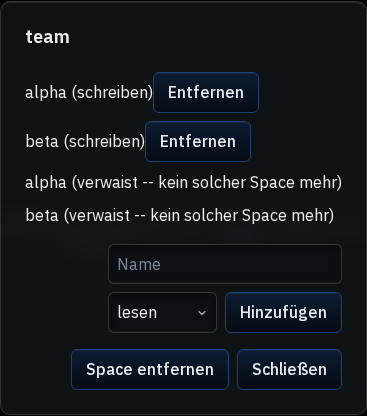
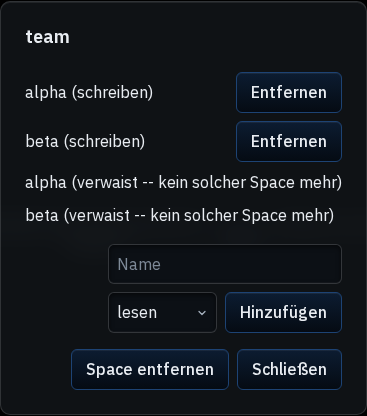
phase 9: feedback B4 Nachsatz -- Entfernen-Knopf rechtsbuendig (Sichtpruefung)
.space-member-row als Flex mit justify-content: space-between und gap:
der Knopf sitzt auf der Kante von Hinzufuegen (1154 px), Abstand zum Text
>= --space. Probe S10b 14/14, Gegenlauf ohne die Regel rot.
Korrektur: der Session-Block im Head war nach der Rotation der alte (B3);
B4-Block wieder oben, B3 im Archiv (rotate_session_block.sh behaelt den
unteren Block -- neuen Block deshalb UNTER den alten setzen).

Claude-Session: https://claude.ai/code/session_01VnF5FKhJuPeopaAsiUWNNJ

Changed region(s): [[0.3896, 0.1562, 0.9292, 0.4062], [0.8992, 0.375, 0.9292, 0.4062], [0.3896, 0.375, 0.4196, 0.4062]]

diff --git a/phase5_ui/webui/static/app.css b/phase5_ui/webui/static/app.css
@@ -2136,6 +2136,18 @@ select.input:focus {
   gap: var(--space);
 }
 
+/* P9-BM, Nachsatz (2026-10-08, Sichtprüfung zu Bild B4): der „Entfernen"-Knopf klebte am Text
+   (Abstand 0–4 px) und wanderte mit der Namenslänge. Die Zeile ist jetzt eine Flex-Zeile mit
+   `justify-content: space-between`: der Knopf sitzt **rechtsbündig** auf derselben Kante wie
+   „Hinzufügen" darunter, die Zeilenbreite hängt nicht mehr am Namen, und `gap` hält den
+   Mindestabstand zum Text. */
+.space-member-row {
+  display: flex;
+  align-items: center;
+  justify-content: space-between;
+  gap: var(--space);
+}
+
 /* P9-AZ (2026-10-05, Nikinger, wörtlich): „Name des Spaces"-Feld und „Space anlegen" **in eine
    Zeile**, links und rechts bündig mit der Linie darüber, Standard-Abstand zwischen den Knöpfen;
    „Schließen" bleibt allein darunter rechtsbündig.

diff --git a/phase9_hardening/scripts/p9_feedback_self_check.py b/phase9_hardening/scripts/p9_feedback_self_check.py
@@ -320,6 +320,20 @@ def _b4(page: Page) -> None:
         return {n: zeilen.length, space: r2(space),
                 abstaende: zeilen.slice(1).map((b, i) => r2(b.top - zeilen[i].bottom))};
     }""")
+    k = page.evaluate("""() => {
+        const r2 = (v) => Math.round(v * 100) / 100;
+        const hinzu = document.getElementById('space-member-add-submit').getBoundingClientRect();
+        const zeilen = [...document.querySelectorAll('#space-member-list > li')]
+          .filter(li => li.querySelector('button'));
+        return {rechts_hinzu: r2(hinzu.right), zeilen: zeilen.map(li => {
+          const t = li.querySelector('span').getBoundingClientRect();
+          const b = li.querySelector('button').getBoundingClientRect();
+          return {rechts: r2(b.right), abstand: r2(b.left - t.right)}; })};
+    }""")
+    pruefe("S10b Entfernen-Knoepfe sitzen rechtsbuendig auf der Kante von „Hinzufuegen“, Abstand zum Text >= --space",
+           len(k["zeilen"]) >= 2 and all(abs(z["rechts"] - k["rechts_hinzu"]) <= 1 and z["abstand"] >= m["space"]
+                                         for z in k["zeilen"]),
+           f"Hinzufuegen rechts={k['rechts_hinzu']} Zeilen={k['zeilen']}")
     page.locator("#settings-space-detail").screenshot(path=str(OUT_DIR / "p9_feedback_b4_mitglieder.png"))
     pruefe("S10 Mitgliederzeilen haben den Standardabstand (--space)",
            m["n"] >= 2 and m["space"] > 0 and all(abs(a - m["space"]) <= 0.5 for a in m["abstaende"]),

diff --git a/phase9_hardening/tests/test_settings_chain.py b/phase9_hardening/tests/test_settings_chain.py
@@ -1363,6 +1363,12 @@ def test_the_two_input_rows_stop_being_staircases():
     assert _eigenschaft(mitglieder[0], "display") == "flex", mitglieder[0]
     assert _eigenschaft(mitglieder[0], "flex-direction") == "column", mitglieder[0]
     assert _eigenschaft(mitglieder[0], "gap") == "var(--space)", mitglieder[0]
+    # Nachsatz B4 (Sichtpruefung): der Entfernen-Knopf sitzt rechtsbuendig, mit Mindestabstand zum Text.
+    zeilen_regel = [b for erster, selectors, b in _alle_regeln() if erster == ".space-member-row"]
+    assert len(zeilen_regel) == 1, f"genau eine Regel fuer .space-member-row erwartet: {len(zeilen_regel)}"
+    assert _eigenschaft(zeilen_regel[0], "display") == "flex", zeilen_regel[0]
+    assert _eigenschaft(zeilen_regel[0], "justify-content") == "space-between", zeilen_regel[0]
+    assert _eigenschaft(zeilen_regel[0], "gap") == "var(--space)", zeilen_regel[0]
 
 
 # --- Block „Kästchen enger" (Plan §12.1, Locks P9-BB/BC/BD/BE, Abnahme P9-116 – P9-119) ---------

diff --git a/phase9_hardening/SESSIONS_ARCHIVE.md b/phase9_hardening/SESSIONS_ARCHIVE.md
@@ -5,7 +5,7 @@ read-when: Chronik einer älteren P9-Session gesucht — nicht beim normalen Arb
 detail: L3
 up: ./CLAUDE.md
 down:
-updated: 2026-10-08 (Block „dreiunddreißigster Block“ verbatim hierher rotiert, B4 gebaut; Archiv **385.202 → 387.085 B**) | 2026-10-08 (Block „zweiunddreißigster Block“ verbatim hierher rotiert, B3 gebaut; Archiv **381.997 → 385.202 B**) | 2026-10-08 (Block „einunddreißigster Block“ verbatim hierher rotiert, E1a des feedback-Blocks gebaut; Archiv **379.160 → 381.997 B**) | 2026-10-08 (Block „dreißigster Block“ verbatim hierher rotiert, B2 des feedback-Blocks gebaut; Archiv **377.085 → 379.160 B**) | 2026-10-07 (Block „neunundzwanzigster Block“ verbatim hierher rotiert, B1 des feedback-Blocks gebaut; Archiv **367.947 → 376944 B**) | 2026-10-07 (Block vom **2026-10-06** (dritte Sichtprüfung, samt der 2026-10-07 eingetragenen Deploy- und Kleinigkeiten-Vermerke) verbatim hierher rotiert, per `scripts/rotate_session_block.sh`; Archiv **361.906 → 367.947 B**) | 2026-10-06 (Block vom **2026-10-06** (dritte Sichtprüfung, Lock **P9-BF**, Abnahme **P9-120**) verbatim hierher rotiert, per `scripts/rotate_session_block.sh`; Archiv **352.224 → 354.010 B**, Head **33.060 → 34.900 B**) | 2026-10-06 (Block vom **2026-10-06** („Kästchen enger", Mini-Plan §12.1, Locks P9-BB/BC/BD/**BE**, Abnahme P9-116–P9-119) verbatim hierher rotiert, per `scripts/rotate_session_block.sh`; Archiv **342.168 → 351.965 B**, Head **32.707 → 31.575 B**) | 2026-10-05 (Block vom **2026-10-05** (LEGACY_UNTIL=open) verbatim hierher rotiert, per `scripts/rotate_session_block.sh`; Archiv **300.461 → 310.492 B**, Head **29.371 → 28.133 B**) | 2026-10-05 (Block 2026-10-04 aus dem Head verbatim hierher rotiert, per `scripts/rotate_session_block.sh`) | 2026-10-04 (**zweiundzwanzigste Rotation** — der Block vom **2026-10-03** wandert **verbatim** hierher: Hauptblock (7.842 B) plus seine drei `###`-Nachträge (2.643 / 3.388 / 3.902 B), zusammen **214 Zeilen / 17.780 B**; `scripts/rotate_session_block.sh phase9_hardening`, alle vier Gegenproben des Skripts grün, byteweise Gegenlese nach dem Schreiben, Backups danach entfernt) · **Grund:** die Konvention trägt genau **einen** `## Session stopped`-Block im Head, und es ist ein neuer Tag — die Rotation war überfällig, nicht optional · **Die Byte-Buchhaltung ging auf das Byte:** 66.223 B (Head) + 262.069 B (dieses Archiv) = 328.292 B, danach 59.354 + 279.849 = 339.203 B; die Differenz von 10.911 B ist **genau** der neue Block (77.134 − 66.223) — verschoben wurde 17.780 B, hinzugekommen 10.911 B, kein Byte verloren und keines erfunden · **Und die Antwort auf die offene Frage steht in diesem Commit, nicht hier:** nach beiden Rotationen bleibt der Head ~14 KB über dem Softcap, weil nicht die *Anzahl* der Blöcke das Problem ist, sondern die Breite der §-Modulstatus-Tabelle (30.564 B in 14 Zeilen (Kopf + 13 Datenzeilen)). Die Blockschnittzahl ist damit gegenstandslos — **K=1 ist die Konvention, und selbst K=1 passt nicht** | 2026-10-03 (**zweiundzwanzigste Rotation** — der **einundzwanzigste** Block wandert verbatim hierher: Release-Commit `v3.1.1` steht (Badge + `## 2026-10-03`-Block), davor der Datumsfehler der letzten beiden Commits (42 Fundstellen) und die Reparatur dieser Kette — sie hatte **kein Feld** und 7 von 29 unsichtbaren Fäden; Head 54.326 → 47.208 B) | 2026-10-03 (sechsundzwanzigste Rotation: der **siebzehnte** Block wandert verbatim hierher — Kettenrotation des Heads (36 von 37 Fäden nach `UPDATES_ARCHIVE.md`, 57.873 → 39.106 B) und `rotate_index_updates.sh` um Zieldatei/Archiv erweitert) | 2026-10-03 (**zwanzigster Block rotiert** — „die Karte schrumpft": `docs/INDEX.md` 71.573 → 38.532 B, die 37.391 B datierte Nachträge wandern nach `docs/INDEX_ENTRIES_ARCHIVE.md`, das Kriterium ist neu baseliniert; P9-3 und V145 ✅; die Wurzel-`CLAUDE.md` bleibt auf Nikinger-Entscheidung unangetastet und ist stattdessen gemessen) | 2026-10-03 (**der neunzehnte Block rotiert** — „die Zahlen der Abnahmematrix dürfen nicht mehr still veralten": P9-3/V145 nannten `61.108 B` für eine Datei von real 71.491 B, die Bilanz stand viermal mit drei Zahlen, und der benannte Hebel für die INDEX-Überschreitung wurde als No-op nachgewiesen; 7 neue Tests, 6 Gegenproben rot) | 2026-10-03 (fünfundzwanzigste Rotation: der **siebzehnte** Block wandert verbatim hierher — Kettenrotation des Heads (`UPDATES_ARCHIVE.md`, 36 von 37 Fäden) + `rotate_index_updates.sh` um Zieldatei/Archiv erweitert; **und ein Fund aus dem allerersten Schritt: die vorige Rotation hat dieser Zeile das `updated: `-Präfix genommen** (Commit aee387d, 2026-10-03) — das Feld war damit für jedes Werkzeug unsichtbar, `doc_health` prüft es nicht und eine Rotation dieses Archivs würde mit 'Keine updated:-Zeile' abbrechen. Präfix wiederhergestellt, Fehler benannt statt still mitgenommen) | 2026-10-03 (vierundzwanzigste Rotation: der **sechzehnte** Block wandert verbatim hierher — Step D endlich gefahren, P9-28/-29/-30 von ⬜/⚠ auf ✅, Browser-Probe 16/16 mit **zwei** Gegenproben im Repo, 0 Zeilen Produktcode; Archiv 209.333 → 219.179 B, Head 65.986 → 56.140 B) | 2026-10-03 (dreiundzwanzigste Rotation: der **fünfzehnte** Block — Abnahmematrix P9-1–P9-82 + `[VERIFY]`-Bilanz steht (`ABNAHME_MATRIX.md` neu), und drei Funde, die die Übergabe nicht trug: die „40 Einträge" waren ein Nummernbereich (belegt: **34**, V167–V172 unbelegt), P9-56 hat einen nicht angekündigten Tabu-Treffer (`phase7_hardening/tests/test_space_removal.py`, 17 Z.), und **GA2 wurde nie gebaut** — genau P9-27/-29/-30 sind die Zeilen ohne Probe; der **vierzehnte** Block (B17) wandert verbatim hierher, neuer Head-Block = 2026-10-03; Head **56.142 B → 53.215 B**, Archiv 195.890 B → 209.333 B — **weiter über dem Softcap, neu benannt**, die Restmasse bleiben die 7.467 B durchgestrichenen Statusabsätze im Modulstatus, Streichen bleibt Nikinger-Entscheidung) | 2026-10-02 (zweiundzwanzigste Rotation: der dreizehnte Block — Gate/Z-Doku-Hälfte (zwei Sektions-Rotationen, P9-L-Lauf, Skript-Defekt `rotate_index_updates.sh`) — wandert verbatim hierher; neuer Head-Block = **B17 gebaut** (ein Knopf, zwei korrigierte Zahlen im Backlog, Konflikt mit Konvention v3 zurückgestellt); Head 63.470 B → 53.968 B — **weiter über dem Softcap, neu benannt**, die Restmasse sind weiter die 7.467 B durchgestrichenen Statusabsätze im Modulstatus, Streichen bleibt Nikinger-Entscheidung) | 2026-10-02 (einundzwanzigste Rotation: der zwölfte Block — Block trace gebaut, opencode/M3 — wandert verbatim hierher; neuer Head-Block = Gate/Z-Doku-Hälfte (zwei Sektions-Rotationen, P9-L-Lauf, Skript-Defekt `rotate_index_updates.sh`); Head 49.440 B → 44.360 B — **weiter über dem Softcap, neu benannt**, die Restmasse sind 7.467 B durchgestrichene Statusabsätze im Modulstatus, Streichen ist Nikinger-Entscheidung) | 2026-10-02 (zwanzigste Rotation: der zwölfte Block — Block trace gebaut, opencode/M3 — ist ans Dateiende gewandert, der elfte Block (Deploy-Abbruch behoben, `v3.1.0` live, Planungssession) verbatim ins Archiv; Head 46.993 B → 42.012 B) | 2026-10-02 (**neunzehnte Rotation, elfter Block** — der zehnte Block (doing-Block gebaut) wandert verbatim hierher; neuer Head-Block = Deploy-Abbruch `v3.1.0` behoben, `requests` war nie deklariert) | 2026-10-02 (**achtzehnte Rotation, zehnter Block** — der neunte Block (Mini-Plan doing-Block, Lock P9-V) wandert verbatim hierher; neuer Head-Block = doing-Block **gebaut**: `_BUCKETS["doing"]` + Rail-Label „In Arbeit", 6 neue Tests, Browser 11/11 mit Gegenlauf 7 rot, `pytest` 1128. **Head 44.508 B → 41.192 B** — und damit wieder 232 B **über** dem 40-KiB-Softcap, im INDEX neu benannt) | 2026-10-02 (**siebzehnte Rotation, neunter Block** — der achte Block (Deploy verschoben, Befund 11) wandert verbatim hierher; neuer Head-Block = Mini-Plan doing-Block, Lock P9-V) | 2026-10-01 (**sechzehnte Rotation, achter Block** — Deploy verschoben (Befund 11: `doing` ist im Deploy-Fall im Status-Feld erreichbar und zählt in keinem Ordner), `.toolbar-btn` in Standardoptik mit Pixel-Beleg 13/13, vier Tailscale-Bilder geklärt; Head 41.306 B, Archiv 152.730 B) | 2026-10-01 (**fünfzehnte Rotation, A4-Vorbereitung** — Step-A-Block (2026-10-01, Domain live) verbatim aus dem Head; Head 42.376 B → 34.795 B) | 2026-10-01 (**vierzehnte Rotation, Step A** — Step-B-Block verbatim aus dem Head; Head 41.707 B → 29.415 B) | 2026-09-30 (**dreizehnte Rotation, Step B** — Step-B-Block [polkit-Regel gebaut, V153 entschieden: sudoers ist unter NoNewPrivileges unbaubar; systemd 255 kennt nur die grobe `manage-units`-Aktion, deshalb JS-Regel mit Unit-Attribut; V153-Probe ohne tailscaled-Kontakt] im Head **angehängt**, Step-H-Block verbatim ins Archiv; Head 34.873 B → 28.685 B) | 2026-09-30 (**zwoelfte Rotation, Step H** — Step-H-Block [`fastmcp` exakt gepinnt `==3.4.7`, der Range-Pin hatte den Live-Release bereits lautlos auf 3.4.7 gezogen, V163 mit drei Codepunkten beantwortet, Wächter als Deploy-Riegel, Gegenprobe 4 Verstöße → 7 rot] im Head **angehängt**, Step-G-Block verbatim ins Archiv; Head 33.175 B → 26.210 B) | 2026-09-30 (**elfte Rotation, Step G** — Step-G-Block [Lösch-Ort war unbaubar, TLS-Wegwerf für den Browserbeleg, 14/14] im Head **angehängt**, Step-F-Block verbatim ins Archiv; Head 32.668 B → 25.740 B) | 2026-09-30 (**zehnte Rotation, Step F** — Step-F-Block 2026-09-30 [doing/assignee, neunte P1-Contract-Öffnung, V160 beantwortet, Plan-§8.2-Korrektur 9 → 18 Hunks, `_BUCKETS`-Befund bewusst nicht behoben, V161-Vorabwert] im Head **angehängt**, Block 2026-09-30 [A1/A2/A3/A0b/A6] verbatim ins Archiv; Head 30.868 B → 23.312 B) | 2026-09-30 (neunte Rotation — Step-A-Block 2026-09-30 [A1/A2/A3/A0b/A6 ausgeführt, A6-eigener-Fehler, vier eigene Fehler, Gegenseiten-Belege] im Head angehängt, Block 2026-09-29 [Step A vorbereitet: Plan-A4 unbaubar, socat-Relay gebaut] verbatim ins Archiv; Head 41.523 B → 23.080 B) | 2026-09-29 (achte Rotation — Step-A-Vorbereitungs-Block 2026-09-29 [sechs gemessene Befunde, Plan-A4 als unbaubar nachgewiesen, socat-Relay-Unit + Caddy-Vorlage + ACL-Entwurf + geführtes Runbook, V149 beantwortet, V162 neu offen] im Head angehängt, Block 2026-09-28 [Step E: Reload-Overload] verbatim ins Archiv; Head 41.523 B → 21.880 B) | 2026-09-28 (siebte Rotation — Step-E-Block 2026-09-28 [Reload-Overload: Signatur aus dem /overview-Payload statt aus dem Graph-Payload, Positionen überleben den Wiedereintritt, V118 beantwortet] im Head angehängt, Block 2026-09-26 [Step C abgeschlossen: C8 + Host-Aufräumen pve + P9-22 deferred] verbatim ins Archiv; 13.606 B, 215 Zeilen) | 2026-09-26 (sechste Rotation — Step-C-Abschluss-Block 2026-09-26 [C8 + Host-Aufräumen pve + P9-22 deferred] im Head angehängt, Block  | 2026-09-25 (3) [GPU-Reboot-Persistenz / devN-Fix / C4 / C5] verbatim ins Archiv verschoben; Head trägt jetzt exakt einen Session-Block) | 2026-09-25 (fünfte Rotation — Step-C-Block  | 2026-09-25 (2) [Diagnose, Host-Fix, GPU-Messung, Boot-Persistenz] verbatim ins Archiv; Head trägt Block (3)) | 2026-09-25 (vierte Rotation — C6-/Backlog-Block vom 2026-09-25 verbatim ins Archiv; Head trägt den Step-C-Diagnose-Block  | 2026-09-25 (2)) | 2026-09-25 (dritte Rotation — Step-C-Teil-1-Block vom 2026-09-24 ins Archiv verschoben, verbatim; Head trägt jetzt den Step-C-Teil-2 / C6-Block vom 2026-09-25 allein) | 2026-09-24 (zweite Rotation — Step-D-Block vom 2026-09-23 aus dem Head verschoben, verbatim) | 2026-09-23 (erste Rotation — Step-0-Block aus dem Head verschoben, verbatim) | 2026-09-20 (angelegt, noch leer)
+updated: 2026-10-08 (Block „dreiunddreißigster Block“ verbatim hierher rotiert, B4 gebaut; Archiv **385.202 → 387.344 B**) | 2026-10-08 (Block „zweiunddreißigster Block“ verbatim hierher rotiert, B3 gebaut; Archiv **381.997 → 385.202 B**) | 2026-10-08 (Block „einunddreißigster Block“ verbatim hierher rotiert, E1a des feedback-Blocks gebaut; Archiv **379.160 → 381.997 B**) | 2026-10-08 (Block „dreißigster Block“ verbatim hierher rotiert, B2 des feedback-Blocks gebaut; Archiv **377.085 → 379.160 B**) | 2026-10-07 (Block „neunundzwanzigster Block“ verbatim hierher rotiert, B1 des feedback-Blocks gebaut; Archiv **367.947 → 376944 B**) | 2026-10-07 (Block vom **2026-10-06** (dritte Sichtprüfung, samt der 2026-10-07 eingetragenen Deploy- und Kleinigkeiten-Vermerke) verbatim hierher rotiert, per `scripts/rotate_session_block.sh`; Archiv **361.906 → 367.947 B**) | 2026-10-06 (Block vom **2026-10-06** (dritte Sichtprüfung, Lock **P9-BF**, Abnahme **P9-120**) verbatim hierher rotiert, per `scripts/rotate_session_block.sh`; Archiv **352.224 → 354.010 B**, Head **33.060 → 34.900 B**) | 2026-10-06 (Block vom **2026-10-06** („Kästchen enger", Mini-Plan §12.1, Locks P9-BB/BC/BD/**BE**, Abnahme P9-116–P9-119) verbatim hierher rotiert, per `scripts/rotate_session_block.sh`; Archiv **342.168 → 351.965 B**, Head **32.707 → 31.575 B**) | 2026-10-05 (Block vom **2026-10-05** (LEGACY_UNTIL=open) verbatim hierher rotiert, per `scripts/rotate_session_block.sh`; Archiv **300.461 → 310.492 B**, Head **29.371 → 28.133 B**) | 2026-10-05 (Block 2026-10-04 aus dem Head verbatim hierher rotiert, per `scripts/rotate_session_block.sh`) | 2026-10-04 (**zweiundzwanzigste Rotation** — der Block vom **2026-10-03** wandert **verbatim** hierher: Hauptblock (7.842 B) plus seine drei `###`-Nachträge (2.643 / 3.388 / 3.902 B), zusammen **214 Zeilen / 17.780 B**; `scripts/rotate_session_block.sh phase9_hardening`, alle vier Gegenproben des Skripts grün, byteweise Gegenlese nach dem Schreiben, Backups danach entfernt) · **Grund:** die Konvention trägt genau **einen** `## Session stopped`-Block im Head, und es ist ein neuer Tag — die Rotation war überfällig, nicht optional · **Die Byte-Buchhaltung ging auf das Byte:** 66.223 B (Head) + 262.069 B (dieses Archiv) = 328.292 B, danach 59.354 + 279.849 = 339.203 B; die Differenz von 10.911 B ist **genau** der neue Block (77.134 − 66.223) — verschoben wurde 17.780 B, hinzugekommen 10.911 B, kein Byte verloren und keines erfunden · **Und die Antwort auf die offene Frage steht in diesem Commit, nicht hier:** nach beiden Rotationen bleibt der Head ~14 KB über dem Softcap, weil nicht die *Anzahl* der Blöcke das Problem ist, sondern die Breite der §-Modulstatus-Tabelle (30.564 B in 14 Zeilen (Kopf + 13 Datenzeilen)). Die Blockschnittzahl ist damit gegenstandslos — **K=1 ist die Konvention, und selbst K=1 passt nicht** | 2026-10-03 (**zweiundzwanzigste Rotation** — der **einundzwanzigste** Block wandert verbatim hierher: Release-Commit `v3.1.1` steht (Badge + `## 2026-10-03`-Block), davor der Datumsfehler der letzten beiden Commits (42 Fundstellen) und die Reparatur dieser Kette — sie hatte **kein Feld** und 7 von 29 unsichtbaren Fäden; Head 54.326 → 47.208 B) | 2026-10-03 (sechsundzwanzigste Rotation: der **siebzehnte** Block wandert verbatim hierher — Kettenrotation des Heads (36 von 37 Fäden nach `UPDATES_ARCHIVE.md`, 57.873 → 39.106 B) und `rotate_index_updates.sh` um Zieldatei/Archiv erweitert) | 2026-10-03 (**zwanzigster Block rotiert** — „die Karte schrumpft": `docs/INDEX.md` 71.573 → 38.532 B, die 37.391 B datierte Nachträge wandern nach `docs/INDEX_ENTRIES_ARCHIVE.md`, das Kriterium ist neu baseliniert; P9-3 und V145 ✅; die Wurzel-`CLAUDE.md` bleibt auf Nikinger-Entscheidung unangetastet und ist stattdessen gemessen) | 2026-10-03 (**der neunzehnte Block rotiert** — „die Zahlen der Abnahmematrix dürfen nicht mehr still veralten": P9-3/V145 nannten `61.108 B` für eine Datei von real 71.491 B, die Bilanz stand viermal mit drei Zahlen, und der benannte Hebel für die INDEX-Überschreitung wurde als No-op nachgewiesen; 7 neue Tests, 6 Gegenproben rot) | 2026-10-03 (fünfundzwanzigste Rotation: der **siebzehnte** Block wandert verbatim hierher — Kettenrotation des Heads (`UPDATES_ARCHIVE.md`, 36 von 37 Fäden) + `rotate_index_updates.sh` um Zieldatei/Archiv erweitert; **und ein Fund aus dem allerersten Schritt: die vorige Rotation hat dieser Zeile das `updated: `-Präfix genommen** (Commit aee387d, 2026-10-03) — das Feld war damit für jedes Werkzeug unsichtbar, `doc_health` prüft es nicht und eine Rotation dieses Archivs würde mit 'Keine updated:-Zeile' abbrechen. Präfix wiederhergestellt, Fehler benannt statt still mitgenommen) | 2026-10-03 (vierundzwanzigste Rotation: der **sechzehnte** Block wandert verbatim hierher — Step D endlich gefahren, P9-28/-29/-30 von ⬜/⚠ auf ✅, Browser-Probe 16/16 mit **zwei** Gegenproben im Repo, 0 Zeilen Produktcode; Archiv 209.333 → 219.179 B, Head 65.986 → 56.140 B) | 2026-10-03 (dreiundzwanzigste Rotation: der **fünfzehnte** Block — Abnahmematrix P9-1–P9-82 + `[VERIFY]`-Bilanz steht (`ABNAHME_MATRIX.md` neu), und drei Funde, die die Übergabe nicht trug: die „40 Einträge" waren ein Nummernbereich (belegt: **34**, V167–V172 unbelegt), P9-56 hat einen nicht angekündigten Tabu-Treffer (`phase7_hardening/tests/test_space_removal.py`, 17 Z.), und **GA2 wurde nie gebaut** — genau P9-27/-29/-30 sind die Zeilen ohne Probe; der **vierzehnte** Block (B17) wandert verbatim hierher, neuer Head-Block = 2026-10-03; Head **56.142 B → 53.215 B**, Archiv 195.890 B → 209.333 B — **weiter über dem Softcap, neu benannt**, die Restmasse bleiben die 7.467 B durchgestrichenen Statusabsätze im Modulstatus, Streichen bleibt Nikinger-Entscheidung) | 2026-10-02 (zweiundzwanzigste Rotation: der dreizehnte Block — Gate/Z-Doku-Hälfte (zwei Sektions-Rotationen, P9-L-Lauf, Skript-Defekt `rotate_index_updates.sh`) — wandert verbatim hierher; neuer Head-Block = **B17 gebaut** (ein Knopf, zwei korrigierte Zahlen im Backlog, Konflikt mit Konvention v3 zurückgestellt); Head 63.470 B → 53.968 B — **weiter über dem Softcap, neu benannt**, die Restmasse sind weiter die 7.467 B durchgestrichenen Statusabsätze im Modulstatus, Streichen bleibt Nikinger-Entscheidung) | 2026-10-02 (einundzwanzigste Rotation: der zwölfte Block — Block trace gebaut, opencode/M3 — wandert verbatim hierher; neuer Head-Block = Gate/Z-Doku-Hälfte (zwei Sektions-Rotationen, P9-L-Lauf, Skript-Defekt `rotate_index_updates.sh`); Head 49.440 B → 44.360 B — **weiter über dem Softcap, neu benannt**, die Restmasse sind 7.467 B durchgestrichene Statusabsätze im Modulstatus, Streichen ist Nikinger-Entscheidung) | 2026-10-02 (zwanzigste Rotation: der zwölfte Block — Block trace gebaut, opencode/M3 — ist ans Dateiende gewandert, der elfte Block (Deploy-Abbruch behoben, `v3.1.0` live, Planungssession) verbatim ins Archiv; Head 46.993 B → 42.012 B) | 2026-10-02 (**neunzehnte Rotation, elfter Block** — der zehnte Block (doing-Block gebaut) wandert verbatim hierher; neuer Head-Block = Deploy-Abbruch `v3.1.0` behoben, `requests` war nie deklariert) | 2026-10-02 (**achtzehnte Rotation, zehnter Block** — der neunte Block (Mini-Plan doing-Block, Lock P9-V) wandert verbatim hierher; neuer Head-Block = doing-Block **gebaut**: `_BUCKETS["doing"]` + Rail-Label „In Arbeit", 6 neue Tests, Browser 11/11 mit Gegenlauf 7 rot, `pytest` 1128. **Head 44.508 B → 41.192 B** — und damit wieder 232 B **über** dem 40-KiB-Softcap, im INDEX neu benannt) | 2026-10-02 (**siebzehnte Rotation, neunter Block** — der achte Block (Deploy verschoben, Befund 11) wandert verbatim hierher; neuer Head-Block = Mini-Plan doing-Block, Lock P9-V) | 2026-10-01 (**sechzehnte Rotation, achter Block** — Deploy verschoben (Befund 11: `doing` ist im Deploy-Fall im Status-Feld erreichbar und zählt in keinem Ordner), `.toolbar-btn` in Standardoptik mit Pixel-Beleg 13/13, vier Tailscale-Bilder geklärt; Head 41.306 B, Archiv 152.730 B) | 2026-10-01 (**fünfzehnte Rotation, A4-Vorbereitung** — Step-A-Block (2026-10-01, Domain live) verbatim aus dem Head; Head 42.376 B → 34.795 B) | 2026-10-01 (**vierzehnte Rotation, Step A** — Step-B-Block verbatim aus dem Head; Head 41.707 B → 29.415 B) | 2026-09-30 (**dreizehnte Rotation, Step B** — Step-B-Block [polkit-Regel gebaut, V153 entschieden: sudoers ist unter NoNewPrivileges unbaubar; systemd 255 kennt nur die grobe `manage-units`-Aktion, deshalb JS-Regel mit Unit-Attribut; V153-Probe ohne tailscaled-Kontakt] im Head **angehängt**, Step-H-Block verbatim ins Archiv; Head 34.873 B → 28.685 B) | 2026-09-30 (**zwoelfte Rotation, Step H** — Step-H-Block [`fastmcp` exakt gepinnt `==3.4.7`, der Range-Pin hatte den Live-Release bereits lautlos auf 3.4.7 gezogen, V163 mit drei Codepunkten beantwortet, Wächter als Deploy-Riegel, Gegenprobe 4 Verstöße → 7 rot] im Head **angehängt**, Step-G-Block verbatim ins Archiv; Head 33.175 B → 26.210 B) | 2026-09-30 (**elfte Rotation, Step G** — Step-G-Block [Lösch-Ort war unbaubar, TLS-Wegwerf für den Browserbeleg, 14/14] im Head **angehängt**, Step-F-Block verbatim ins Archiv; Head 32.668 B → 25.740 B) | 2026-09-30 (**zehnte Rotation, Step F** — Step-F-Block 2026-09-30 [doing/assignee, neunte P1-Contract-Öffnung, V160 beantwortet, Plan-§8.2-Korrektur 9 → 18 Hunks, `_BUCKETS`-Befund bewusst nicht behoben, V161-Vorabwert] im Head **angehängt**, Block 2026-09-30 [A1/A2/A3/A0b/A6] verbatim ins Archiv; Head 30.868 B → 23.312 B) | 2026-09-30 (neunte Rotation — Step-A-Block 2026-09-30 [A1/A2/A3/A0b/A6 ausgeführt, A6-eigener-Fehler, vier eigene Fehler, Gegenseiten-Belege] im Head angehängt, Block 2026-09-29 [Step A vorbereitet: Plan-A4 unbaubar, socat-Relay gebaut] verbatim ins Archiv; Head 41.523 B → 23.080 B) | 2026-09-29 (achte Rotation — Step-A-Vorbereitungs-Block 2026-09-29 [sechs gemessene Befunde, Plan-A4 als unbaubar nachgewiesen, socat-Relay-Unit + Caddy-Vorlage + ACL-Entwurf + geführtes Runbook, V149 beantwortet, V162 neu offen] im Head angehängt, Block 2026-09-28 [Step E: Reload-Overload] verbatim ins Archiv; Head 41.523 B → 21.880 B) | 2026-09-28 (siebte Rotation — Step-E-Block 2026-09-28 [Reload-Overload: Signatur aus dem /overview-Payload statt aus dem Graph-Payload, Positionen überleben den Wiedereintritt, V118 beantwortet] im Head angehängt, Block 2026-09-26 [Step C abgeschlossen: C8 + Host-Aufräumen pve + P9-22 deferred] verbatim ins Archiv; 13.606 B, 215 Zeilen) | 2026-09-26 (sechste Rotation — Step-C-Abschluss-Block 2026-09-26 [C8 + Host-Aufräumen pve + P9-22 deferred] im Head angehängt, Block  | 2026-09-25 (3) [GPU-Reboot-Persistenz / devN-Fix / C4 / C5] verbatim ins Archiv verschoben; Head trägt jetzt exakt einen Session-Block) | 2026-09-25 (fünfte Rotation — Step-C-Block  | 2026-09-25 (2) [Diagnose, Host-Fix, GPU-Messung, Boot-Persistenz] verbatim ins Archiv; Head trägt Block (3)) | 2026-09-25 (vierte Rotation — C6-/Backlog-Block vom 2026-09-25 verbatim ins Archiv; Head trägt den Step-C-Diagnose-Block  | 2026-09-25 (2)) | 2026-09-25 (dritte Rotation — Step-C-Teil-1-Block vom 2026-09-24 ins Archiv verschoben, verbatim; Head trägt jetzt den Step-C-Teil-2 / C6-Block vom 2026-09-25 allein) | 2026-09-24 (zweite Rotation — Step-D-Block vom 2026-09-23 aus dem Head verschoben, verbatim) | 2026-09-23 (erste Rotation — Step-0-Block aus dem Head verschoben, verbatim) | 2026-09-20 (angelegt, noch leer)
 ---
 
 # Phase 9 — Sessions Archive
@@ -16,29 +16,31 @@ Vorsatz: nichts abtippen, alles per Skript mit vier Gegenproben (Schnitt verlust
 Head trägt genau einen Block, alle bewegten Blöcke im Archiv byte-identisch, Archivbestand
 unangetastet).
 
-## Session stopped — 2026-10-08 (vierunddreißigster Block: **B4 gebaut — Übergabe für B5**; kein Deploy, kein Service-Touch)
+## Session stopped — 2026-10-08 (dreiunddreißigster Block: **B3 gebaut, Sessionende — Übergabe für B4**; kein Deploy, kein Service-Touch)
 
-**Ergebnis der Session.** B4 (P9-BM, Abnahme P9-130 ✅): `#space-member-list` ist eine Flex-Spalte mit
-`gap: var(--space)`. Probe S10 misst im Wegwerf-`team` **vier** Mitgliederzeilen mit Abständen **[8, 8, 8] px**
-gegen `--space` = 8 px; Gegenlauf `gap: 0` → S10 rot ([0, 0]). Matrix **114 ✅ · 12 ⚠ · 1 ⬜**, `pytest` **1261**
-(kein neuer Test — der bestehende Wächter der Mitgliederliste prüft jetzt auch `display`/`flex-direction`/`gap`).
-Probe **13/13**. **Nichts deployt.**
+**Ergebnis der Session.** Vier Commits: B2 (Zielangabe im Anlegen-Dialog, P9-125), E1a-Vorlauf (vierter
+Matrix-Teil), E1a (Team-Spaces verschieben/archivieren/löschen, P9-135–137, dazu ein behobenes Loch seit Step 7b),
+B3 (Schließen im Einstellungsmenü, P9-131). Matrix **113 ✅ · 12 ⚠ · 1 ⬜**, `pytest` **1261**, `ui_budget` 5/5,
+Probe `p9_feedback_self_check.py` **12/12**. **Nichts deployt**, alles auf `main` gepusht.
 
-**Abweichung vom Plan, benannt.** Die Probe legt kein Mitglied an: der Seed schreibt `team` mit alpha **und** beta,
-die Liste ist damit schon gefüllt, und das schließt die Grenze aus P9-107/P9-110. Ein Anlegen bräuchte einen
-dritten Principal samt Re-Auth (Plan §8, B4).
+**B3 in einem Satz.** `#settings-menu-close` schließt die ganze Kette (`closeSettings`); Probe S9 öffnet Menü +
+Update-Log und misst danach Overlay `hidden` und 0 offene Panels; gegen den alten Client rot.
 
 **Nächster Schritt (Reihenfolge aus Plan §4).**
-1. **B5** Titelzeile im Löschdialog (P9-BL), per `textContent`, direkt über `#trash-confirm-input`.
-2. **B6** Enter-Handler (P9-BK, Tabelle §5), **B7** Übersicht Name vor Chips (P9-BJ), **B8** zuerst messen (V190).
-3. Offen für den Closeout: V189–V194 in `ABNAHME_MATRIX_VERIFY.md`; Ordner anlegen in Team-Spaces; MCP
+1. **B4** Abstand der Mitgliederzeilen (P9-BM): `#space-member-list` als Flex-Spalte mit `gap: var(--space)`.
+   Die Probe muss ein **Mitglied anlegen** (`team` hat alpha/beta) und den Abstand messen; Gegenlauf `gap: 0` → rot.
+2. **B5** Titelzeile im Löschdialog (P9-BL), per `textContent`, direkt über `#trash-confirm-input`.
+3. **B6** Enter-Handler (P9-BK, Tabelle §5), **B7** Übersicht Name vor Chips (P9-BJ), **B8** zuerst messen (V190).
+4. Offen für den Closeout: V189–V194 in `ABNAHME_MATRIX_VERIFY.md`; Ordner anlegen in Team-Spaces; MCP
    `update_item` ohne Team-Ausnahme.
 
-**Werkzeug.** Unverändert: `p9_feedback_wegwerf.py start|stop` (Port 18778, Stopp nur über die PID-Datei),
-Probe mit `--report`/`--screenshots-dir` je Schritt. Ein Gegenlauf auf einer **verbrauchten** Instanz färbt auch
-fremde Stationen rot (hier sechs) — nur die Station des Gegenlaufs zählt, sonst frische Instanz starten.
+**Werkzeug.** Probe läuft mit `--report`/`--screenshots-dir` je Schritt (Gegenläufe nach `/tmp`). Wegwerf:
+`python phase9_hardening/scripts/p9_feedback_wegwerf.py start|stop` (Port 18778, Stopp nur über die PID-Datei).
+`docs/INDEX.md` hat ~500 B Luft, `ABNAHME_MATRIX_FEEDBACK.md` ist der Ort für neue feedback-Zeilen.
 
-**Beim Nikinger:** Sichtprüfung (neu: `docs/screenshots/p9_feedback_b4_mitglieder.png`), Deploy `v3.1.4`.
+**Beim Nikinger:** Sichtprüfung (acht Bilder, u. a. Knopfhöhe in `p9_feedback_b3_menue.png`), Deploy `v3.1.4`.
+
+**Messung (Softcap-Wächter).** Die durchgestrichene Masse im L3-Archiv bleibt **229 B** und ist kein Hebel; der Head bleibt unter dem Softcap.
 
 ## Session stopped — 2026-10-08 (zweiunddreißigster Block: **E1a gebaut — in Team-Spaces darf jedes Mitglied verschieben, archivieren und löschen**; kein Deploy, kein Service-Touch)
 

diff --git a/docs/INDEX.md b/docs/INDEX.md
@@ -62,16 +62,16 @@ updated: 2026-10-07 (Oversize-Fix: Matrix in Hub + drei lebende Teile geteilt, s
 - [docs/concepts/phase8_5_picker_release_uebersicht.svg](./concepts/phase8_5_picker_release_uebersicht.svg) — 📕 ~16KB · **Nachtrag: `docs/INDEX_ENTRIES_ARCHIVE.md`**
 ## Phase 9 — 🔄 Step 0 ✅, **Step C ✅ (2026-09-26)**, **Step B ✅ (2026-10-01)** (P9-16–P9-20 alle bestanden, V153 entschieden; zwei echte Befunde erst durch die Abnahme gefunden: `__REPO_ROOT__`-ExecStart zeigte aufs Release, und das Rate-Limit war nie in Kraft) · **Step E ✅ (2026-09-28, Reload-Overload der Karte; 7 Tests + Browser-Probe mit Gegenprobe)**, **Step A 🟡 (2026-09-30, M3-Anteil gebaut **und A1/A2/A3/A0b/A6 ausgeführt** — Domain bestellt, VPS `217.160.128.146`, Policy + Beitritt mit `tag:sharefyx-edge`, socat-Relay laufend, Firewall `22` nur auf `tailscale0`, jede Stufe mit Gegenprobe von der Gegenseite belegt; **Plan-A4 war unbaubar und ist durch ein socat-Relay ersetzt**; Kette blockiert an der Domain-Registrierung — A4 braucht eine auflösende Domain)**, **Step B 🟡 (Code-complete 2026-09-26, install ausstehend — `tailscaled-watchdog`{.sh,service,timer} + 5/5 Tests grün, Polkit-Regel + Timer-Enable + P9-19-Probe sind Nikinger-Schritte; V152 beantwortet, V153 als Empfehlung dokumentiert)**, **Step G 🟡 (2026-09-30, code-complete, nicht live-bewiesen — Löschen nach `._trash/`: der Lösch-Ort aus Plan §9.3 war **unbaubar** (`<space>/_trash/` ⇒ Item nach `rebuild_index()` wieder da, `_trash` als Phantom-Space), Nikinger entschied `DATA_ROOT/._trash/<space>/` ⇒ **null P1-Änderungen**; serverseitiges Titel-Gate, `version` Pflicht, kein MCP-Werkzeug; **Browser 14/14** gegen eine eigene TLS-Wegwerf-Instanz)**, **Step F 🟡 (2026-09-30, code-complete, nicht live-bewiesen — `doing` + `assignee`, die neunte und bis jetzt letzte P1-Contract-Öffnung: V160 vom Nikinger beantwortet (Space-Name, ohne Validierung, Lock P9-U), Plan §8.2 am Diff korrigiert von neun auf 18 Hunks in genau drei Dateien, drei nicht geplante Pflichtstellen ergänzt; ein Befund bewusst **nicht** behoben — `_BUCKETS` kennt `doing` nicht, beide Fix-Kandidaten sind P10-Arbeit (P9-P))**, Step D 🟡 (Drop-Ziel Space-Wurzel fertig; ESC/Vollbild-Bug zurückgestellt, kein Blocker); G/H ⬜. **2026-10-01 (zweiter Teil): A4 ausgeführt, P9-10a ✅, Befund 10, und ein Datumsfehler von mir korrigiert** (ich hatte den Commit durchgehend mit 2026-10-02 datiert, ohne das Datum zu messen — die Gegenprobe kam erst mit dem LE-Zertifikat `notBefore=Oct 1`; 41 Fundstellen, ein Korrektur-Commit) ·  — **Befund 8: P9-10 ist bis A7 nicht erfüllbar** (die neue Domain bekommt am laufenden Dienst `400 Invalid host header`; dieselbe Kette über einen echten Caddy 2.6.2 vor dem echten Relay durchgespielt → 200 mit dem erlaubten Host), also **P9-10a** (Zertifikat, in A4) und **P9-10b** (`200`, nach `ALLOWED_HOSTS`); **Befund 9: auf dem VPS ist kein Caddy** (`ubuntu`/100.121.142.113, 80+443 ohne Listener) ⇒ A4 hatte keinen Install-Schritt und ist jetzt **A4a/A4b**; Vorlagen-Defekt `<vps-tailnet>` → `<heimvm-tailnet>`; **A7a vorgeschlagen** (`ALLOWED_HOSTS` vorziehen, kein Token-Folge) **Haertungsphase, kein UI-Umbau** (Nikinger: die letzten Schwaechen beseitigen, um eine stabile Grundlage fuer neue Features zu schaffen). Die aeltere Lesart dieser Sektion — P9 = Obsidian-Map-Umbau — ist per **Lock P9-A** nach P10 verschoben, nicht erledigt. Ziel `v3.1.0`
 
-- [phase9_hardening/CLAUDE.md](../phase9_hardening/CLAUDE.md) — 📗 **31.800 B****** (vor den beiden Rotationen 56.860 B = 15.900 B drüber) — nach beiden Rotationen (Block 17.780 B verbatim, Kette 6 von 7 Fäden) ist der **letzte Hebel allein diese Tabelle** (30.564 B in 14 Zeilen (Kopf + 13 Datenzeilen)), nicht die Anzahl der Blöcke; Kürzen in ein L3-Archiv ist Nikinger-Entscheidung (P8-P; Nachtrag im L3-Archiv) **Nachtrag: `docs/INDEX_ENTRIES_ARCHIVE.md`**
+- [phase9_hardening/CLAUDE.md](../phase9_hardening/CLAUDE.md) — 📗 **31.926 B****** (vor den beiden Rotationen 56.860 B = 15.900 B drüber) — nach beiden Rotationen (Block 17.780 B verbatim, Kette 6 von 7 Fäden) ist der **letzte Hebel allein diese Tabelle** (30.564 B in 14 Zeilen (Kopf + 13 Datenzeilen)), nicht die Anzahl der Blöcke; Kürzen in ein L3-Archiv ist Nikinger-Entscheidung (P8-P; Nachtrag im L3-Archiv) **Nachtrag: `docs/INDEX_ENTRIES_ARCHIVE.md`**
 - [phase9_hardening/ABNAHME_MATRIX.md](../phase9_hardening/ABNAHME_MATRIX.md) — 📗 **19.911 B** · **Hub** der Abnahmematrix: Stand, Statusregel, Bilanz-Überschrift; die Zeilen stehen seit 2026-10-07 in drei lebenden Teilen (Oversize-Fix, `scripts/move_sections.py`) · **Nachtrag: `docs/INDEX_ENTRIES_ARCHIVE.md`**
 - [phase9_hardening/ABNAHME_MATRIX_STEPS.md](../phase9_hardening/ABNAHME_MATRIX_STEPS.md) — 📗 **30.725 B** · Matrix-Teil: Step 0–H und Phasenweit (P9-1 – P9-58)
 - [phase9_hardening/ABNAHME_MATRIX_BLOECKE.md](../phase9_hardening/ABNAHME_MATRIX_BLOECKE.md) — 📗 **37.185 B** · Matrix-Teil: Blöcke doing/trace/settings und die drei Bildsichtungen (P9-59 – P9-120)
-- [phase9_hardening/ABNAHME_MATRIX_FEEDBACK.md](../phase9_hardening/ABNAHME_MATRIX_FEEDBACK.md) — 📗 **8.186 B** · Matrix-Teil: Block feedback (P9-121 – P9-137), seit 2026-10-08
+- [phase9_hardening/ABNAHME_MATRIX_FEEDBACK.md](../phase9_hardening/ABNAHME_MATRIX_FEEDBACK.md) — 📗 **8.693 B** · Matrix-Teil: Block feedback (P9-121 – P9-137), seit 2026-10-08
 - [phase9_hardening/ABNAHME_MATRIX_VERIFY.md](../phase9_hardening/ABNAHME_MATRIX_VERIFY.md) — 📗 **18.524 B** · Matrix-Teil: `[VERIFY]` je Eintrag (V145 – V188), Zählregel, `[VERIFY]`-Bilanz
 - [phase9_hardening/step_a/RUNBOOK_STEP_A.md](../phase9_hardening/step_a/RUNBOOK_STEP_A.md) — 📗 **17.476 B** · Step-A-Runbook; §0 Befund 1–10 und A1–A7 seit 2026-10-07 im Archiv, hier bleiben §1, A8/A9 (A8 offen für das zweite Konto), §3–§6 · **Nachtrag: `docs/INDEX_ENTRIES_ARCHIVE.md`**
 - [phase9_hardening/step_a/RUNBOOK_STEP_A_ARCHIVE.md](../phase9_hardening/step_a/RUNBOOK_STEP_A_ARCHIVE.md) — 📦 **47.158 B** · L3: Runbook §0 (zehn Befunde) und A1–A7, verbatim
 - [phase9_hardening/step_b/RUNBOOK_STEP_B.md](../phase9_hardening/step_b/RUNBOOK_STEP_B.md) — 📗 ~26KB · **der geführte Step-B-Ablauf B0–B3** (tailscaled-watchdog installieren und live beweisen) mit **drei gemessenen Befunden, die den Plan §4 korrigiert haben**: **der `sudoers`-Weg ist unbaubar** (die Unit setzt `NoNewPrivileges=true`, sudo lebt vom setuid-Bit — `setpriv --no-new-privs -- sudo -n -l` → *"no new privileges" flag is set*) · **die Box kennt nur die grobe polkit-Aktion** (`systemd 255.4`: `manage-units` für Start/Stop/Restart, man `org.freedesktop.systemd1(5)` §Security), ein `<defaults>`-Eintrag kann **nicht** nach Unit filtern · **die Units sind auf der VM noch nicht installiert** (`/etc/systemd/system/tailscaled-watchdog.*` fehlt, `list-timers` = 0). **V153 damit entschieden** (polkit) — ob systemd 255 das `unit`-Attribut mitschickt, war unprivilegiert nicht auslesbar (`pkcheck` → *not registered*) — **B0 hat es gemessen: `AUTORISIERT`**, Journal-Beleg bei `User=root` ⇒ die enge Regel trägt. Nebenbefund: eine Verweigerung kostet hier 25 s (kein polkit-Agent, headless). · **Nachtrag: `docs/INDEX_ENTRIES_ARCHIVE.md`**
-- [phase9_hardening/SESSIONS_ARCHIVE.md](../phase9_hardening/SESSIONS_ARCHIVE.md) — 📦 **387.085 B**** · **Nachtrag: `docs/INDEX_ENTRIES_ARCHIVE.md`**
+- [phase9_hardening/SESSIONS_ARCHIVE.md](../phase9_hardening/SESSIONS_ARCHIVE.md) — 📦 **387.344 B**** · **Nachtrag: `docs/INDEX_ENTRIES_ARCHIVE.md`**
 - [phase9_hardening/MODULE_STATUS_ARCHIVE.md](../phase9_hardening/MODULE_STATUS_ARCHIVE.md) — 📦 **38.362 B** — L3-Archiv der ausführlichen §-Modulstatus-Statusspalten, verbatim, eine Sektion je Step (2026-10-04 angelegt, Nikinger-Entscheidung; **der letzte Hebel** gegen die Softcap-Überschreitung des Phase-9-Heads)
 - [phase9_hardening/UPDATES_ARCHIVE.md](../phase9_hardening/UPDATES_ARCHIVE.md) — 📦 **33.086 B** · **Nachtrag: `docs/INDEX_ENTRIES_ARCHIVE.md`**
 - [docs/concepts/phase9_hardening_plan.md](./concepts/phase9_hardening_plan.md) — 📕 ~66KB · **der P9-Plan**, ausfuehrungsreif, 📕-Snapshot gegen `main@2f752f9`. Locks **P9-A–P9-T**, Abnahme **P9-1–P9-58**, `[VERIFY]` **V145–V164** plus die drei geerbten (V118, V136, V120). **Zwei Befunde, die eine Handover-Annahme widerlegen:** Tailscale Funnel kann keine eigene Domain (der CNAME-Weg aus `PHASE8_6_CLOSEOUT_HANDOVER.md` §4.2 existiert nicht, P9-E), und `SharePolicy` ist bereits gebaut — das Cross-Space-Rechte-Thema braucht **kein** fertiges P6 (§0.6). §12 ist der kanonische Closeout, §15 die P10-Liste

diff --git a/phase9_hardening/CLAUDE.md b/phase9_hardening/CLAUDE.md
@@ -142,28 +142,31 @@ den aktuellen Session-Block; die Entscheidungen (P9-A–P9-T) und Step-Details s
   zurückzuführen** — Nikinger-Anordnung 2026-09-24, so dokumentieren und nicht weiter
   untersuchen.
 
-## Session stopped — 2026-10-08 (dreiunddreißigster Block: **B3 gebaut, Sessionende — Übergabe für B4**; kein Deploy, kein Service-Touch)
+## Session stopped — 2026-10-08 (vierunddreißigster Block: **B4 gebaut — Übergabe für B5**; kein Deploy, kein Service-Touch)
 
-**Ergebnis der Session.** Vier Commits: B2 (Zielangabe im Anlegen-Dialog, P9-125), E1a-Vorlauf (vierter
-Matrix-Teil), E1a (Team-Spaces verschieben/archivieren/löschen, P9-135–137, dazu ein behobenes Loch seit Step 7b),
-B3 (Schließen im Einstellungsmenü, P9-131). Matrix **113 ✅ · 12 ⚠ · 1 ⬜**, `pytest` **1261**, `ui_budget` 5/5,
-Probe `p9_feedback_self_check.py` **12/12**. **Nichts deployt**, alles auf `main` gepusht.
+**Ergebnis der Session.** B4 (P9-BM, Abnahme P9-130 ✅): `#space-member-list` ist eine Flex-Spalte mit
+`gap: var(--space)`. Probe S10 misst im Wegwerf-`team` **vier** Mitgliederzeilen mit Abständen **[8, 8, 8] px**
+gegen `--space` = 8 px; Gegenlauf `gap: 0` → S10 rot ([0, 0]). Matrix **114 ✅ · 12 ⚠ · 1 ⬜**, `pytest` **1261**
+(kein neuer Test — der bestehende Wächter der Mitgliederliste prüft jetzt auch `display`/`flex-direction`/`gap`).
+Probe **14/14**. **Nichts deployt.**
 
-**B3 in einem Satz.** `#settings-menu-close` schließt die ganze Kette (`closeSettings`); Probe S9 öffnet Menü +
-Update-Log und misst danach Overlay `hidden` und 0 offene Panels; gegen den alten Client rot.
+**Nachsatz nach der Sichtprüfung.** Der Nikinger sah „Entfernen" am Text kleben und wollte es rechtsbündig:
+`.space-member-row` ist jetzt Flex mit `space-between` (Knopf auf der Kante von „Hinzufügen“, Probe S10b, Gegenlauf rot).
+
+**Abweichung vom Plan, benannt.** Die Probe legt kein Mitglied an: der Seed schreibt `team` mit alpha **und** beta,
+die Liste ist damit schon gefüllt, und das schließt die Grenze aus P9-107/P9-110. Ein Anlegen bräuchte einen
+dritten Principal samt Re-Auth (Plan §8, B4).
 
 **Nächster Schritt (Reihenfolge aus Plan §4).**
-1. **B4** Abstand der Mitgliederzeilen (P9-BM): `#space-member-list` als Flex-Spalte mit `gap: var(--space)`.
-   Die Probe muss ein **Mitglied anlegen** (`team` hat alpha/beta) und den Abstand messen; Gegenlauf `gap: 0` → rot.
-2. **B5** Titelzeile im Löschdialog (P9-BL), per `textContent`, direkt über `#trash-confirm-input`.
-3. **B6** Enter-Handler (P9-BK, Tabelle §5), **B7** Übersicht Name vor Chips (P9-BJ), **B8** zuerst messen (V190).
-4. Offen für den Closeout: V189–V194 in `ABNAHME_MATRIX_VERIFY.md`; Ordner anlegen in Team-Spaces; MCP
+1. **B5** Titelzeile im Löschdialog (P9-BL), per `textContent`, direkt über `#trash-confirm-input`.
+2. **B6** Enter-Handler (P9-BK, Tabelle §5), **B7** Übersicht Name vor Chips (P9-BJ), **B8** zuerst messen (V190).
+3. Offen für den Closeout: V189–V194 in `ABNAHME_MATRIX_VERIFY.md`; Ordner anlegen in Team-Spaces; MCP
    `update_item` ohne Team-Ausnahme.
 
-**Werkzeug.** Probe läuft mit `--report`/`--screenshots-dir` je Schritt (Gegenläufe nach `/tmp`). Wegwerf:
-`python phase9_hardening/scripts/p9_feedback_wegwerf.py start|stop` (Port 18778, Stopp nur über die PID-Datei).
-`docs/INDEX.md` hat ~500 B Luft, `ABNAHME_MATRIX_FEEDBACK.md` ist der Ort für neue feedback-Zeilen.
+**Werkzeug.** Unverändert: `p9_feedback_wegwerf.py start|stop` (Port 18778, Stopp nur über die PID-Datei),
+Probe mit `--report`/`--screenshots-dir` je Schritt. Ein Gegenlauf auf einer **verbrauchten** Instanz färbt auch
+fremde Stationen rot (hier sechs) — nur die Station des Gegenlaufs zählt, sonst frische Instanz starten.
 
-**Beim Nikinger:** Sichtprüfung (acht Bilder, u. a. Knopfhöhe in `p9_feedback_b3_menue.png`), Deploy `v3.1.4`.
+**Beim Nikinger:** Sichtprüfung (neu: `docs/screenshots/p9_feedback_b4_mitglieder.png`), Deploy `v3.1.4`.
 
 **Messung (Softcap-Wächter).** Die durchgestrichene Masse im L3-Archiv bleibt **229 B** und ist kein Hebel; der Head bleibt unter dem Softcap.

diff --git a/phase9_hardening/ABNAHME_MATRIX_FEEDBACK.md b/phase9_hardening/ABNAHME_MATRIX_FEEDBACK.md
@@ -54,4 +54,4 @@ updated: 2026-10-08 (angelegt — `ABNAHME_MATRIX_BLOECKE.md` stand bei 39.667 B
 
 | Nr | Kriterium | Stand | Beleg |
 |---|---|---|---|
-| **P9-130** | Mitgliederzeilen mit Standardabstand, **gemessen mit gefüllter Liste** | ✅ | `#space-member-list` als Flex-Spalte mit `gap: var(--space)` (`app.css`), kein `margin` an den Zeilen · Probe S10 (`probes/p9_feedback_b4_probe.json`, **13/13**): `team` → **4** Zeilen (alpha/beta je schreiben + lesen), Abstände **[8, 8, 8]** px gegen `--space` = 8 px · **Gegenlauf `gap: 0` (CSS temporär, danach zurückgesetzt): S10 rot**, Abstände [0, 0] (`probes/p9_feedback_b4_probe_gegenprobe.json`; die übrigen sechs roten Stationen dort sind Folgen der verbrauchten Wegwerf-Instanz, nicht des CSS) · Wächter `test_the_settings_chain_…` (Mitgliederliste: `display`, `flex-direction`, `gap`) · **Abweichung vom Plan, benannt:** die Probe *legt kein Mitglied an* — der Seed von `team` trägt bereits alpha **und** beta, die Liste ist damit im Harness erstmals gefüllt; das schließt die Grenze aus P9-107/P9-110 ebenso, und ein Anlegen bräuchte einen dritten Principal samt Re-Auth. Bild `docs/screenshots/p9_feedback_b4_mitglieder.png` |
+| **P9-130** | Mitgliederzeilen mit Standardabstand, **gemessen mit gefüllter Liste** | ✅ | `#space-member-list` als Flex-Spalte mit `gap: var(--space)` (`app.css`), kein `margin` an den Zeilen · Probe S10 (`probes/p9_feedback_b4_probe.json`, **13/13**): `team` → **4** Zeilen (alpha/beta je schreiben + lesen), Abstände **[8, 8, 8]** px gegen `--space` = 8 px · **Gegenlauf `gap: 0` (CSS temporär, danach zurückgesetzt): S10 rot**, Abstände [0, 0] (`probes/p9_feedback_b4_probe_gegenprobe.json`; die übrigen sechs roten Stationen dort sind Folgen der verbrauchten Wegwerf-Instanz, nicht des CSS) · Wächter `test_the_settings_chain_…` (Mitgliederliste: `display`, `flex-direction`, `gap`) · **Abweichung vom Plan, benannt:** die Probe *legt kein Mitglied an* — der Seed von `team` trägt bereits alpha **und** beta, die Liste ist damit im Harness erstmals gefüllt; das schließt die Grenze aus P9-107/P9-110 ebenso, und ein Anlegen bräuchte einen dritten Principal samt Re-Auth. Bild `docs/screenshots/p9_feedback_b4_mitglieder.png` · **Nachsatz nach der Sichtprüfung (2026-10-08):** der „Entfernen"-Knopf klebte am Text (Abstand 0 px); `.space-member-row` ist jetzt Flex mit `justify-content: space-between` und `gap: var(--space)`, der Knopf sitzt auf der rechten Kante von „Hinzufügen“ (beide **1154 px**), Abstand zum Text 83/91 px · Probe S10b, **14/14**; **Gegenlauf ohne die Regel: S10b rot** (Kanten 1071/1063 gegen 1154, Abstand 0; `probes/p9_feedback_b4b_probe_gegenprobe.json`) · Wächter um die Zeilenregel erweitert |

diff --git a/docs/concepts/phase9_hardening_block_feedback_plan.md b/docs/concepts/phase9_hardening_block_feedback_plan.md
@@ -347,3 +347,6 @@ Regel seit dem Oversize-Fix: neuer Block → neuer Teil, `scripts/move_sections.
   mit `read`/`write: [alpha, beta]`, die Liste hat also vier Zeilen (beide Rollen je Principal) — das genügt, um
   die Grenze aus P9-107/P9-110 („Liste im Harness leer") zu schließen. Ein Anlegen bräuchte einen dritten Principal.
 - Belege: Probe S10 **13/13**, Abstände [8, 8, 8] px; Gegenlauf `gap: 0` → S10 rot (Abstände [0, 0]); `pytest` **1261**.
+- **Nachsatz 2026-10-08 (Sichtprüfung des Nikingers zu Bild B4):** „Entfernen" nahe am Text → rechtsbündig auf die Kante
+  der Knöpfe darunter (`.space-member-row`: Flex, `space-between`, `gap`). Das hält auch das Fenster bei mittellangen
+  Space-Namen stabil. Probe S10b 14/14, Gegenlauf rot.
